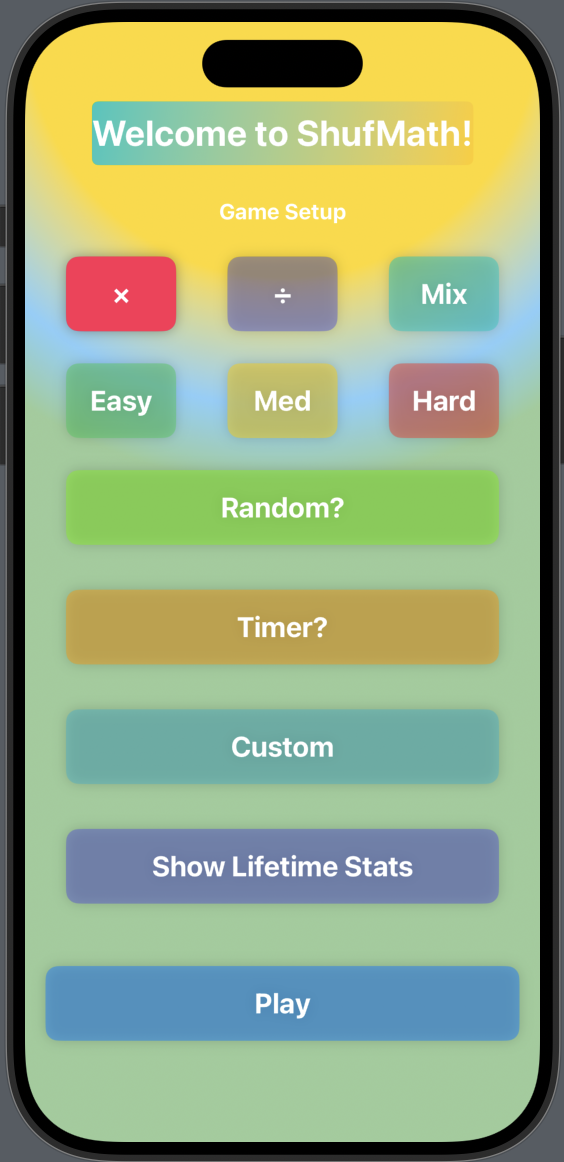
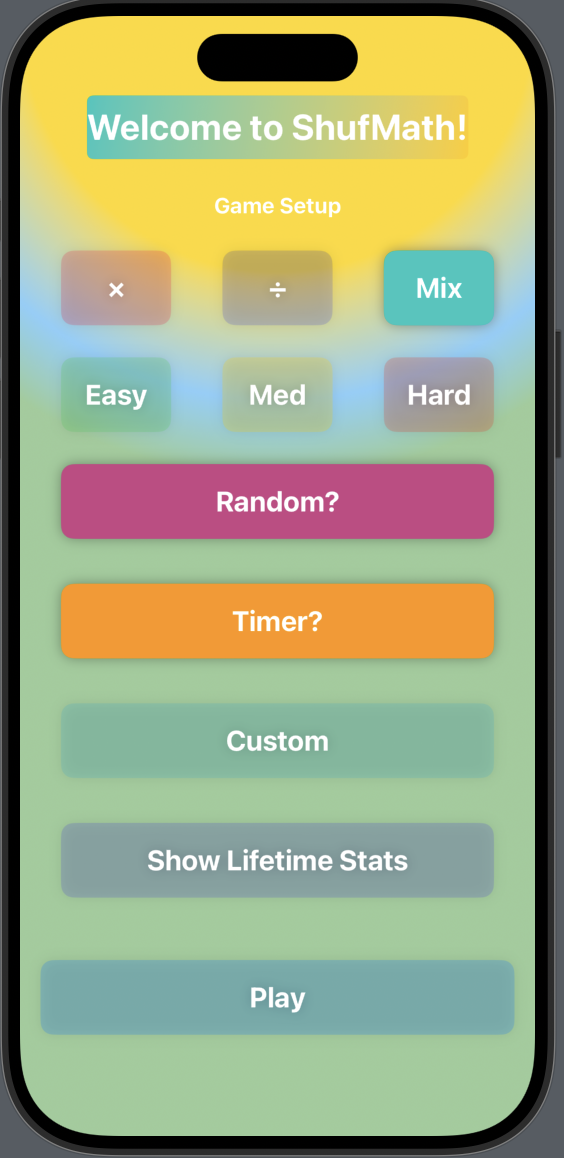
Added JSON encodingand decoding changed review questions background to preset random colors

diff --git a/ShufMath/Views/Setup/Settings/StartingScreen.swift b/ShufMath/Views/Setup/Settings/StartingScreen.swift
@@ -23,7 +23,7 @@ struct StartingScreen: View {
                     viewModel.startGame()
                     playedPress.toggle()
                 }
-                .playButtonView(playedPress: $playedPress)
+                .playButtonView(playedPress: $playedPress, activeGame: viewModel.activeGame)
             }
         }
     }
@@ -56,13 +56,14 @@ extension View {
 
 struct playButtonViewModifer: ViewModifier {
     @Binding var playedPress : Bool
+    var activeGame : Bool
     func body(content: Content) -> some View {
         content
             .font(.title2)
             .fontWeight(.bold)
             .padding()
             .frame(maxWidth: .infinity)
-            .background(playedPress ? Color.blue : Color.blue.opacity(0.5))
+            .background(playedPress && activeGame ? Color.blue : Color.blue.opacity(0.25))
             .foregroundColor(.white)
             .cornerRadius(10)
             .shadow(radius: 5)
@@ -71,11 +72,10 @@ struct playButtonViewModifer: ViewModifier {
 }
 
 extension View {
-    public func playButtonView(playedPress: Binding<Bool>) -> some View {
-        self.modifier(playButtonViewModifer(playedPress: playedPress))
+    public func playButtonView(playedPress: Binding<Bool>, activeGame: Bool) -> some View {
+        self.modifier(playButtonViewModifer(playedPress: playedPress, activeGame: activeGame))
     }
 }
-
 
 //#Preview {
 //    StartingScreen(game: .constant(Game()))

diff --git a/ShufMath/Views/AuxiliaryViews/UserStats/UserStatsView.swift b/ShufMath/Views/AuxiliaryViews/UserStats/UserStatsView.swift
@@ -8,11 +8,14 @@
 import SwiftUI
 
 struct UserStatsView: View {
-    @Binding var userStats: UserStats
+    var userStats: UserStats
+    @ObservedObject var viewModel: GameViewModel
+    
     var body: some View {
         VStack{
             Section(){
                 Text("Player's LifeStats")
+                    .foregroundColor(.white)
                     .font(.title)
                     .bold()
                     .padding(.bottom, 15)
@@ -32,7 +35,7 @@ struct UserStatsView: View {
                                 label: "Games Won",
                                 hint: "Total amount of games the player has won"
                             )
-                        
+                                                
                         Text("Player has lost \(userStats.gamesLost) games")
                             .userViewModifier(
                                 backgroundColor: Color.yellow,
@@ -53,11 +56,16 @@ struct UserStatsView: View {
                                 label: "Perfect Games",
                                 hint: "Amount of perfect games the player has earned"
                             )
+                        
+
                     }
                     .padding()
                 }
                 
             }
+        }
+        .onAppear() {
+            viewModel.loadUserData()
         }
     }
 }

diff --git a/ShufMath/VIewModel/GameViewModel.swift b/ShufMath/VIewModel/GameViewModel.swift
@@ -15,6 +15,7 @@ import SwiftUICore
 
 class GameViewModel: ObservableObject {
     
+    
     @Published var gameModel = GameModel()
     @Published var showAlert = false
     @Published var userInput: String = ""
@@ -29,6 +30,22 @@ class GameViewModel: ObservableObject {
     @Published var useTimer: Bool = false
     @Published var timesUp: Bool = false
     @Published var timerAmount: Double = 0.0
+    
+    
+    func saveUserData() {
+        if let savedUserData = try? JSONEncoder().encode(gameModel.userStats) {
+            UserDefaults.standard.set(savedUserData, forKey: "userStats")
+        }
+    }
+    
+    func loadUserData() {
+        if let loadedUserData = UserDefaults.standard.data(forKey: "userStats"){
+            let decoder = JSONDecoder()
+            if let decodedUserData = try? decoder.decode(UserStats.self, from: loadedUserData) {
+                gameModel.userStats = decodedUserData
+            }
+        }
+    }
 
     // Simplified variable name to show game is active for view
     var activeGame: Bool {
@@ -253,6 +270,8 @@ class GameViewModel: ObservableObject {
             totalQuestions: gameModel.totalQuestions,
             highestStreak: gameModel.highestStreak
         )
+        
+        saveUserData()
         
         if hadPerfectGame{
             gameModel.userStats.perfectGames += 1

diff --git a/ShufMath/Views/Setup/Settings/GameModeSelector.swift b/ShufMath/Views/Setup/Settings/GameModeSelector.swift
@@ -13,17 +13,17 @@ struct GameModeSelector: View {
         HStack{
             GameSetupButton(
                 buttonText: "×",
-                buttonColor: viewModel.gameMode == .multiplication ? Color.pink : Color.pink.opacity(0.5),
+                buttonColor: viewModel.gameMode == .multiplication ? Color.pink : Color.pink.opacity(0.25),
                 action: {viewModel.setGameMode(.multiplication)}
             )
             GameSetupButton(
                 buttonText: "÷",
-                buttonColor: viewModel.gameMode == .division ? Color.indigo : Color.indigo.opacity(0.5),
+                buttonColor: viewModel.gameMode == .division ? Color.indigo : Color.indigo.opacity(0.25),
                 action: {viewModel.setGameMode(.division)}
             )
             GameSetupButton(
                 buttonText: "Mix",
-                buttonColor: viewModel.gameMode == .mixed ? Color.mint : Color.mint.opacity(0.5),
+                buttonColor: viewModel.gameMode == .mixed ? Color.mint : Color.mint.opacity(0.25),
                 action: {viewModel.setGameMode(.mixed)}
             )
         }

diff --git a/ShufMath/Views/Setup/Settings/DifficultyButtonSetup.swift b/ShufMath/Views/Setup/Settings/DifficultyButtonSetup.swift
@@ -32,7 +32,7 @@ struct DifficultyButtonsView: View {
     func createDifficultyButton(buttonText: String, difficulty: GameModel.GameDifficulty, color: Color) -> some View {
         // Use a ternary operation to indicate button selection status,
         // applying a faded appearance for unselected buttons to improve user feedback.
-        let buttonColor = viewModel.gameDifficulty == difficulty ? color : color.opacity(0.5)
+        let buttonColor = viewModel.gameDifficulty == difficulty ? color : color.opacity(0.25)
         return GameSetupButton(
             buttonText: buttonText,
             buttonColor: buttonColor,

diff --git a/ShufMath/Views/AuxiliaryViews/Background.swift b/ShufMath/Views/AuxiliaryViews/Background.swift
@@ -43,3 +43,14 @@ extension ShapeStyle where Self == Color {
         LinearGradient(gradient: Gradient(colors: [Color.teal, Color.white, Color.yellow]), startPoint: .top, endPoint: .bottom)
     }
 }
+
+let goodContrastColors: [Color] = [
+    Color(.systemBlue),   // Navy / Royal Blue
+    Color(.systemGreen),  // Forest Green / Emerald
+    Color(.systemRed),    // Burgundy / Maroon
+    Color.black,          // Black
+    Color.gray,           // Charcoal / Slate Gray
+    Color.purple,         // Plum / Aubergine
+    Color.orange,         // Burnt Orange
+    Color.brown           // Dark Brown
+]

diff --git a/ShufMath/Views/AuxiliaryViews/Review/ReviewGameView.swift b/ShufMath/Views/AuxiliaryViews/Review/ReviewGameView.swift
@@ -23,7 +23,7 @@ struct ReviewGameView: View {
                     .accessibilityLabel("Question number \(idx + 1)")
                     .padding()
                     .frame(maxWidth: .infinity)
-                    .background(Color.random)
+                    .background(goodContrastColors.randomElement())
                     .cornerRadius(10)
                     .shadow(radius: 10)
                     .foregroundStyle(.white)

diff --git a/ShufMath/Views/AuxiliaryViews/UserStats/UserStatsSheet.swift b/ShufMath/Views/AuxiliaryViews/UserStats/UserStatsSheet.swift
@@ -9,12 +9,13 @@ import SwiftUI
 
 struct UserStatsSheet: View {
     @Binding var stats : UserStats
+    @ObservedObject var viewModel : GameViewModel
     
     var body: some View {
         ZStack{
             Color.teal
                 .ignoresSafeArea()
-            UserStatsView(userStats: $stats)
+            UserStatsView(userStats: stats, viewModel: viewModel)
                 .padding()
         }
     }

diff --git a/ShufMath/Views/Setup/Settings/GameFeaturesToggle.swift b/ShufMath/Views/Setup/Settings/GameFeaturesToggle.swift
@@ -54,7 +54,7 @@ struct GameFeatureToggles: View {
                 showUserStats.toggle()
             })
             .sheet(isPresented: $showUserStats){
-                UserStatsSheet(stats: $viewModel.gameModel.userStats)
+                UserStatsSheet(stats: $viewModel.gameModel.userStats, viewModel: viewModel)
             }
         }
     }

diff --git a/ShufMath/Views/Setup/Settings/ToggleButton.swift b/ShufMath/Views/Setup/Settings/ToggleButton.swift
@@ -16,7 +16,7 @@ struct ToggleButton: View {
     var body: some View{
         GameSetupButton(
             buttonText: title,
-            buttonColor: isEnabled ? color : color.opacity(0.5),
+            buttonColor: isEnabled ? color : color.opacity(0.25),
             action: action
         )
     }

diff --git a/ShufMath/Views/GamePlay/ContentView.swift b/ShufMath/Views/GamePlay/ContentView.swift
@@ -10,7 +10,6 @@ import SwiftUI
 struct ContentView: View {
     
     @StateObject private var viewModel = GameViewModel()
-    @AppStorage("highScore") private var highScore = 0
     
     var body: some View {
         NavigationStack{

diff --git a/ShufMath/Models/UserStats.swift b/ShufMath/Models/UserStats.swift
@@ -44,4 +44,5 @@ struct UserStats: Codable {
         
         averageScore = Double(totalScore) / Double(gamesPlayed)
     }
+    
 }
